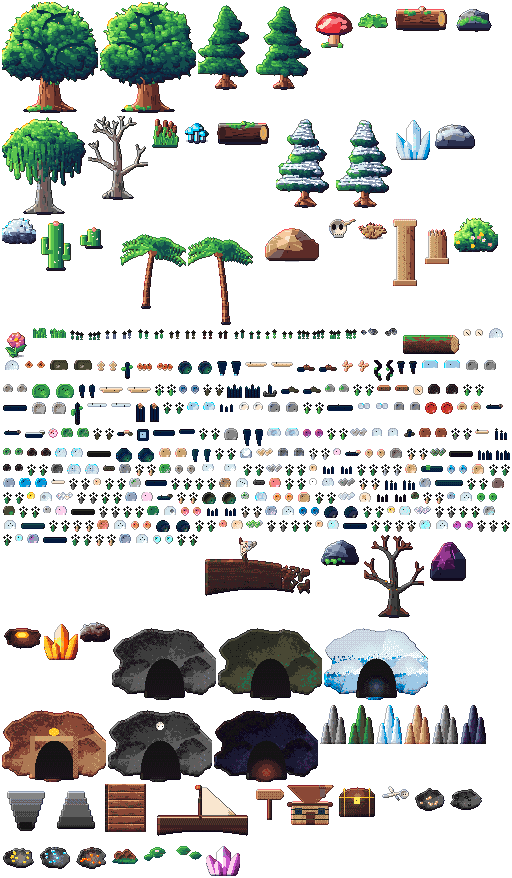
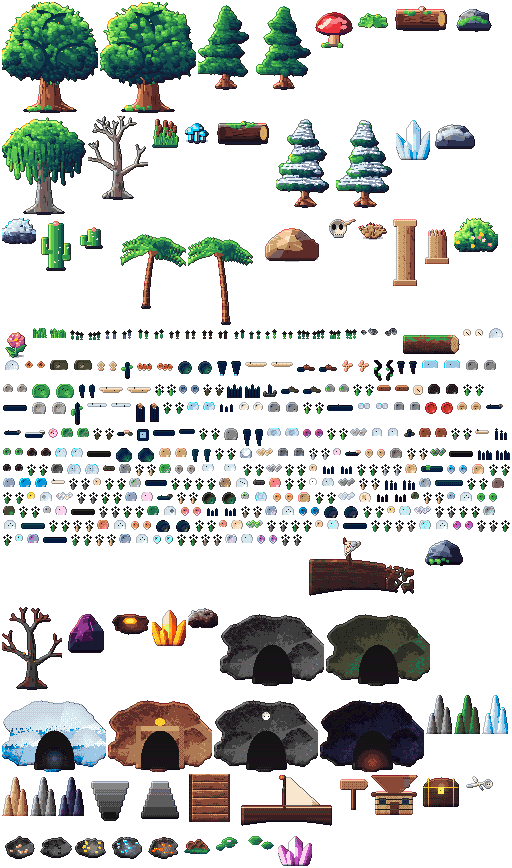
Ciclos 491-500/1000: 5 props (atlas 436) + testes torres/elites + evento eco de herói + dica

diff --git a/src/game/RegionWorld.js b/src/game/RegionWorld.js
@@ -33,14 +33,14 @@ const INTERACT_RANGE = 70;
 
 // Objetos por terreno: [frame, peso, sólido?]. Sólido = base que bloqueia (largura, altura).
 const PROPS = {
-  [T.FOREST]: { density: 0.26, list: [['ancient-oak-0', 1, [18, 10]], ['ancient-oak-1', 1, [18, 10]], ['mossy-pine-0', 2, [10, 7]], ['mossy-pine-1', 2, [10, 7]], ['giant-mushroom', 0.6, [10, 6]], ['fern', 3], ['fallen-log', 0.6, [40, 10]], ['mossy-rock', 1, [24, 10]], ['grass-tuft-0', 4], ['grass-tuft-1', 4], ['flower-tuft-0', 1.2], ['flower-tuft-1', 1.2], ['forest-flower-0', 0.8], ['forest-flower-1', 0.8], ['pebbles-0', 0.7], ['pebbles-1', 0.7], ['mushroom-cluster-0', 0.5], ['mushroom-cluster-1', 0.5], ['berry-bush-0', 0.6], ['berry-bush-1', 0.6], ['yellow-flower-0', 0.7], ['yellow-flower-1', 0.7], ['bark-scrap-0', 0.5], ['bark-scrap-1', 0.5], ['pink-flower-0', 0.6], ['pink-flower-1', 0.6], ['rotten-log', 0.4, [30, 9]], ['red-cap-0', 0.4], ['red-cap-1', 0.4], ['tan-shroom-0', 0.4], ['tan-shroom-1', 0.4], ['orange-shroom-0', 0.4], ['orange-shroom-1', 0.4], ['pink-shroom-0', 0.4], ['pink-shroom-1', 0.4], ['coral-shroom-0', 0.4], ['coral-shroom-1', 0.4], ['violet-shroom-0', 0.4], ['violet-shroom-1', 0.4], ['mossy-log', 0.35, [28, 8]], ['light-purple-flower-0', 0.5], ['light-purple-flower-1', 0.5], ['peach-forest-flower-0', 0.5], ['peach-forest-flower-1', 0.5], ['blue-forest-flower-0', 0.5], ['blue-forest-flower-1', 0.5], ['teal-forest-flower-0', 0.5], ['teal-forest-flower-1', 0.5], ['hot-pink-flower-0', 0.5], ['hot-pink-flower-1', 0.5], ['turquoise-forest-flower-0', 0.5], ['turquoise-forest-flower-1', 0.5], ['lilac-forest-flower-0', 0.5], ['lilac-forest-flower-1', 0.5], ['dark-bark', 0.5], ['blush-forest-flower-0', 0.5], ['blush-forest-flower-1', 0.5], ['forest-gravel', 0.6], ['forest-branch', 0.5], ['yellow-forest-bush-0', 0.5], ['yellow-forest-bush-1', 0.5], ['rotten-forest-log', 0.3, [30, 9]], ['forest-boulder', 0.3, [14, 8]]] },
+  [T.FOREST]: { density: 0.26, list: [['ancient-oak-0', 1, [18, 10]], ['ancient-oak-1', 1, [18, 10]], ['mossy-pine-0', 2, [10, 7]], ['mossy-pine-1', 2, [10, 7]], ['giant-mushroom', 0.6, [10, 6]], ['fern', 3], ['fallen-log', 0.6, [40, 10]], ['mossy-rock', 1, [24, 10]], ['grass-tuft-0', 4], ['grass-tuft-1', 4], ['flower-tuft-0', 1.2], ['flower-tuft-1', 1.2], ['forest-flower-0', 0.8], ['forest-flower-1', 0.8], ['pebbles-0', 0.7], ['pebbles-1', 0.7], ['mushroom-cluster-0', 0.5], ['mushroom-cluster-1', 0.5], ['berry-bush-0', 0.6], ['berry-bush-1', 0.6], ['yellow-flower-0', 0.7], ['yellow-flower-1', 0.7], ['bark-scrap-0', 0.5], ['bark-scrap-1', 0.5], ['pink-flower-0', 0.6], ['pink-flower-1', 0.6], ['rotten-log', 0.4, [30, 9]], ['red-cap-0', 0.4], ['red-cap-1', 0.4], ['tan-shroom-0', 0.4], ['tan-shroom-1', 0.4], ['orange-shroom-0', 0.4], ['orange-shroom-1', 0.4], ['pink-shroom-0', 0.4], ['pink-shroom-1', 0.4], ['coral-shroom-0', 0.4], ['coral-shroom-1', 0.4], ['violet-shroom-0', 0.4], ['violet-shroom-1', 0.4], ['lilac-shroom-0', 0.4], ['lilac-shroom-1', 0.4], ['mossy-log', 0.35, [28, 8]], ['light-purple-flower-0', 0.5], ['light-purple-flower-1', 0.5], ['peach-forest-flower-0', 0.5], ['peach-forest-flower-1', 0.5], ['blue-forest-flower-0', 0.5], ['blue-forest-flower-1', 0.5], ['teal-forest-flower-0', 0.5], ['teal-forest-flower-1', 0.5], ['hot-pink-flower-0', 0.5], ['hot-pink-flower-1', 0.5], ['turquoise-forest-flower-0', 0.5], ['turquoise-forest-flower-1', 0.5], ['lilac-forest-flower-0', 0.5], ['lilac-forest-flower-1', 0.5], ['dark-bark', 0.5], ['blush-forest-flower-0', 0.5], ['blush-forest-flower-1', 0.5], ['forest-gravel', 0.6], ['forest-branch', 0.5], ['yellow-forest-bush-0', 0.5], ['yellow-forest-bush-1', 0.5], ['rotten-forest-log', 0.3, [30, 9]], ['forest-boulder', 0.3, [14, 8]]] },
   [T.SWAMP]: { density: 0.17, list: [['willow', 1.4, [14, 9]], ['dead-tree', 1.4, [10, 7]], ['reeds', 3], ['swamp-shroom', 1.2], ['bog-log', 0.5, [40, 10]], ['mossy-rock', 0.5, [24, 10]], ['grass-tuft-0', 3], ['flower-tuft-1', 0.6], ['swamp-flower-0', 0.6], ['swamp-flower-1', 0.6], ['mud-puddle-0', 0.5], ['mud-puddle-1', 0.5], ['twisted-root-0', 0.5], ['twisted-root-1', 0.5], ['river-stone-0', 0.5, [10, 6]], ['river-stone-1', 0.5, [10, 6]], ['blue-mushroom-0', 0.5], ['blue-mushroom-1', 0.5], ['moss-pebble-0', 0.6], ['moss-pebble-1', 0.6], ['reed-0', 0.7], ['reed-1', 0.7], ['green-stone-0', 0.5, [10, 6]], ['green-stone-1', 0.5, [10, 6]], ['lilac-flower-0', 0.5], ['lilac-flower-1', 0.5], ['swamp-root', 0.5], ['swamp-pebble-0', 0.5], ['swamp-pebble-1', 0.5], ['yellow-swamp-flower-0', 0.5], ['yellow-swamp-flower-1', 0.5], ['swamp-gravel', 0.6], ['pink-swamp-flower-0', 0.5], ['pink-swamp-flower-1', 0.5], ['dark-river-stone', 0.5, [10, 6]], ['gray-shroom-0', 0.4], ['gray-shroom-1', 0.4], ['green-shroom-0', 0.4], ['green-shroom-1', 0.4], ['navy-shroom-0', 0.4], ['navy-shroom-1', 0.4], ['turquoise-shroom-0', 0.4], ['turquoise-shroom-1', 0.4], ['white-swamp-flower-0', 0.5], ['white-swamp-flower-1', 0.5], ['light-blue-shroom-0', 0.4], ['light-blue-shroom-1', 0.4], ['light-river-stone', 0.5, [10, 6]], ['blue-swamp-flower-0', 0.5], ['blue-swamp-flower-1', 0.5], ['orange-swamp-flower-0', 0.5], ['orange-swamp-flower-1', 0.5], ['teal-swamp-flower-0', 0.5], ['teal-swamp-flower-1', 0.5], ['gold-swamp-flower-0', 0.5], ['gold-swamp-flower-1', 0.5], ['dark-purple-swamp-flower-0', 0.5], ['dark-purple-swamp-flower-1', 0.5], ['coral-swamp-flower-0', 0.5], ['coral-swamp-flower-1', 0.5], ['turquoise-swamp-flower-0', 0.5], ['turquoise-swamp-flower-1', 0.5], ['lilac-swamp-flower-0', 0.5], ['lilac-swamp-flower-1', 0.5], ['white-flowered-swamp-bush-0', 0.4], ['white-flowered-swamp-bush-1', 0.4]] },
-  [T.SNOW]: { density: 0.15, list: [['snow-pine-0', 2, [10, 7]], ['snow-pine-1', 2, [10, 7]], ['ice-crystal', 1, [16, 8]], ['snow-rock', 1.4, [28, 10]], ['frozen-bush', 1.4], ['grass-tuft-1', 1.5], ['snow-flower-0', 0.8], ['snow-flower-1', 0.8], ['pebbles-0', 0.5], ['pebbles-1', 0.5], ['frozen-log', 0.5, [40, 10]], ['snow-mound-0', 0.6], ['snow-mound-1', 0.6], ['ice-shard-0', 0.6, [6, 10]], ['ice-shard-1', 0.6, [6, 10]], ['ice-spike-0', 0.6, [4, 8]], ['ice-spike-1', 0.6, [4, 8]], ['white-flower-0', 0.6], ['white-flower-1', 0.6], ['blue-ice-0', 0.5], ['blue-ice-1', 0.5], ['snow-track-0', 0.6], ['snow-track-1', 0.6], ['snow-branch', 0.4, [24, 10]], ['carved-ice', 0.4, [10, 10]], ['snow-hollow-0', 0.5], ['snow-hollow-1', 0.5], ['snow-pile-0', 0.5], ['snow-pile-1', 0.5], ['blue-snow-flower-0', 0.5], ['blue-snow-flower-1', 0.5], ['clear-ice-rock-0', 0.5, [10, 6]], ['clear-ice-rock-1', 0.5, [10, 6]], ['snow-covered-rock', 0.4, [12, 7]], ['lilac-ice-flower-0', 0.5], ['lilac-ice-flower-1', 0.5], ['ice-log', 0.35, [30, 9]], ['cracked-ice-0', 0.5], ['cracked-ice-1', 0.5], ['wind-snow-0', 0.5], ['wind-snow-1', 0.5], ['mint-ice-flower-0', 0.5], ['mint-ice-flower-1', 0.5], ['deep-blue-ice-0', 0.5], ['deep-blue-ice-1', 0.5], ['flowered-snow', 0.5], ['pale-blue-ice', 0.5], ['gray-snow-rock', 0.5, [10, 6]], ['pebbled-snow', 0.5], ['pink-ice', 0.4, [10, 6]], ['shattered-ice', 0.5], ['snow-gravel', 0.6], ['blue-flowered-snow', 0.5], ['lilac-ice', 0.4, [10, 6]], ['dark-pebbled-snow', 0.5], ['pink-flowered-snow', 0.5], ['teal-ice', 0.4, [10, 6]], ['yellow-flowered-snow', 0.5], ['green-flowered-snow', 0.5], ['coral-ice', 0.4, [10, 6]], ['turquoise-ice', 0.4, [10, 6]], ['turquoise-flowered-snow', 0.5], ['dark-lilac-ice', 0.4, [10, 6]], ['lilac-flowered-snow', 0.5]] },
-  [T.SAND]: { density: 0.07, list: [['cactus', 2, [12, 7]], ['cactus-small', 2, [10, 6]], ['desert-rock', 1, [40, 12]], ['skull', 0.7], ['dry-bush', 2], ['ruin-pillar', 0.3, [18, 8]], ['ruin-pillar-broken', 0.4, [18, 8]], ['grass-tuft-0', 1.5], ['dune-flower-0', 0.7], ['dune-flower-1', 0.7], ['pebbles-0', 0.6], ['pebbles-1', 0.6], ['blooming-cactus', 0.4, [12, 7]], ['tall-cactus', 0.35, [10, 12]], ['footprint-0', 0.4], ['footprint-1', 0.4], ['desert-bloom-0', 0.5], ['desert-bloom-1', 0.5], ['carved-pebble-0', 0.5], ['carved-pebble-1', 0.5], ['dry-log', 0.4, [28, 8]], ['white-desert-flower-0', 0.5], ['white-desert-flower-1', 0.5], ['desert-stone-0', 0.5, [10, 6]], ['desert-stone-1', 0.5, [10, 6]], ['pink-dune-flower-0', 0.5], ['pink-dune-flower-1', 0.5], ['lilac-dune-flower-0', 0.5], ['lilac-dune-flower-1', 0.5], ['red-dune-flower-0', 0.5], ['red-dune-flower-1', 0.5], ['white-dune-flower-0', 0.5], ['white-dune-flower-1', 0.5], ['magenta-dune-flower-0', 0.5], ['magenta-dune-flower-1', 0.5], ['coral-dune-flower-0', 0.5], ['coral-dune-flower-1', 0.5], ['turquoise-dune-flower-0', 0.5], ['turquoise-dune-flower-1', 0.5]] },
+  [T.SNOW]: { density: 0.15, list: [['snow-pine-0', 2, [10, 7]], ['snow-pine-1', 2, [10, 7]], ['ice-crystal', 1, [16, 8]], ['snow-rock', 1.4, [28, 10]], ['frozen-bush', 1.4], ['grass-tuft-1', 1.5], ['snow-flower-0', 0.8], ['snow-flower-1', 0.8], ['pebbles-0', 0.5], ['pebbles-1', 0.5], ['frozen-log', 0.5, [40, 10]], ['snow-mound-0', 0.6], ['snow-mound-1', 0.6], ['ice-shard-0', 0.6, [6, 10]], ['ice-shard-1', 0.6, [6, 10]], ['ice-spike-0', 0.6, [4, 8]], ['ice-spike-1', 0.6, [4, 8]], ['white-flower-0', 0.6], ['white-flower-1', 0.6], ['blue-ice-0', 0.5], ['blue-ice-1', 0.5], ['snow-track-0', 0.6], ['snow-track-1', 0.6], ['snow-branch', 0.4, [24, 10]], ['carved-ice', 0.4, [10, 10]], ['snow-hollow-0', 0.5], ['snow-hollow-1', 0.5], ['snow-pile-0', 0.5], ['snow-pile-1', 0.5], ['blue-snow-flower-0', 0.5], ['blue-snow-flower-1', 0.5], ['clear-ice-rock-0', 0.5, [10, 6]], ['clear-ice-rock-1', 0.5, [10, 6]], ['snow-covered-rock', 0.4, [12, 7]], ['lilac-ice-flower-0', 0.5], ['lilac-ice-flower-1', 0.5], ['ice-log', 0.35, [30, 9]], ['cracked-ice-0', 0.5], ['cracked-ice-1', 0.5], ['wind-snow-0', 0.5], ['wind-snow-1', 0.5], ['mint-ice-flower-0', 0.5], ['mint-ice-flower-1', 0.5], ['deep-blue-ice-0', 0.5], ['deep-blue-ice-1', 0.5], ['flowered-snow', 0.5], ['pale-blue-ice', 0.5], ['gray-snow-rock', 0.5, [10, 6]], ['pebbled-snow', 0.5], ['pink-ice', 0.4, [10, 6]], ['shattered-ice', 0.5], ['snow-gravel', 0.6], ['blue-flowered-snow', 0.5], ['lilac-ice', 0.4, [10, 6]], ['dark-pebbled-snow', 0.5], ['pink-flowered-snow', 0.5], ['teal-ice', 0.4, [10, 6]], ['yellow-flowered-snow', 0.5], ['green-flowered-snow', 0.5], ['coral-ice', 0.4, [10, 6]], ['turquoise-ice', 0.4, [10, 6]], ['turquoise-flowered-snow', 0.5], ['dark-lilac-ice', 0.4, [10, 6]], ['lilac-flowered-snow', 0.5], ['pale-teal-ice', 0.4, [10, 6]]] },
+  [T.SAND]: { density: 0.07, list: [['cactus', 2, [12, 7]], ['cactus-small', 2, [10, 6]], ['desert-rock', 1, [40, 12]], ['skull', 0.7], ['dry-bush', 2], ['ruin-pillar', 0.3, [18, 8]], ['ruin-pillar-broken', 0.4, [18, 8]], ['grass-tuft-0', 1.5], ['dune-flower-0', 0.7], ['dune-flower-1', 0.7], ['pebbles-0', 0.6], ['pebbles-1', 0.6], ['blooming-cactus', 0.4, [12, 7]], ['tall-cactus', 0.35, [10, 12]], ['footprint-0', 0.4], ['footprint-1', 0.4], ['desert-bloom-0', 0.5], ['desert-bloom-1', 0.5], ['carved-pebble-0', 0.5], ['carved-pebble-1', 0.5], ['dry-log', 0.4, [28, 8]], ['white-desert-flower-0', 0.5], ['white-desert-flower-1', 0.5], ['desert-stone-0', 0.5, [10, 6]], ['desert-stone-1', 0.5, [10, 6]], ['pink-dune-flower-0', 0.5], ['pink-dune-flower-1', 0.5], ['lilac-dune-flower-0', 0.5], ['lilac-dune-flower-1', 0.5], ['red-dune-flower-0', 0.5], ['red-dune-flower-1', 0.5], ['white-dune-flower-0', 0.5], ['white-dune-flower-1', 0.5], ['magenta-dune-flower-0', 0.5], ['magenta-dune-flower-1', 0.5], ['coral-dune-flower-0', 0.5], ['coral-dune-flower-1', 0.5], ['turquoise-dune-flower-0', 0.5], ['turquoise-dune-flower-1', 0.5], ['lilac-dune-stone', 0.5, [10, 6]]] },
   [T.DUNE]: { density: 0.03, list: [['dry-bush', 1], ['skull', 0.4], ['cactus-small', 0.5, [10, 6]], ['grass-tuft-1', 1], ['dune-flower-0', 0.5], ['dune-flower-1', 0.5], ['footprint-0', 0.5], ['footprint-1', 0.5], ['small-rock-0', 0.5], ['small-rock-1', 0.5], ['dune-wave-0', 0.6], ['dune-wave-1', 0.6], ['tall-grass-0', 0.6], ['tall-grass-1', 0.6], ['dry-bush-2', 0.7], ['dune-root', 0.5], ['dune-bloom', 0.5], ['dune-gravel', 0.6], ['dry-branch', 0.5], ['light-dune-pebble', 0.6], ['round-dune-rock', 0.4, [12, 7]], ['pink-dune-pebble', 0.6], ['dark-dune-stone', 0.5, [10, 6]], ['gold-dune-pebble', 0.6], ['dark-round-dune-rock', 0.4, [12, 7]], ['gray-dune-pebble', 0.6], ['dry-dune-bush-0', 0.5], ['dry-dune-bush-1', 0.5], ['lavender-dune-stone', 0.5, [10, 6]], ['lilac-dune-gravel', 0.6], ['coral-dune-pebble', 0.6], ['turquoise-dune-stone', 0.5, [10, 6]], ['pale-dune-log', 0.3, [30, 9]]] },
-  [T.BEACH]: { density: 0.06, list: [['palm-0', 1.5, [8, 6]], ['palm-1', 1.5, [8, 6]], ['sea-rock', 1, [28, 10]], ['big-flower', 0.3], ['flower-tuft-0', 1.5], ['grass-tuft-0', 2], ['beach-flower-0', 0.7], ['beach-flower-1', 0.7], ['shell-0', 0.6], ['shell-1', 0.6], ['sand-ripple-0', 0.8], ['sand-ripple-1', 0.8], ['starfish-0', 0.4], ['starfish-1', 0.4], ['tide-puddle-0', 0.4], ['tide-puddle-1', 0.4], ['broken-anchor', 0.25, [12, 10]], ['spiral-shell', 0.4], ['beach-boulder-0', 0.3, [14, 8]], ['beach-boulder-1', 0.3, [14, 8]], ['sea-foam-0', 0.5], ['sea-foam-1', 0.5], ['pale-stone-0', 0.5], ['pale-stone-1', 0.5], ['tide-rock-0', 0.5, [10, 6]], ['tide-rock-1', 0.5, [10, 6]], ['pink-shell', 0.4], ['driftwood', 0.4], ['beach-gravel', 0.6], ['pale-bark', 0.4], ['wreck-log', 0.3, [30, 9]], ['wet-stone-0', 0.5, [10, 6]], ['wet-stone-1', 0.5, [10, 6]], ['pink-pebble', 0.5], ['sea-grass-0', 0.6], ['sea-grass-1', 0.6], ['shipwreck', 0.2, [30, 12]], ['blue-gray-stone', 0.5, [10, 6]], ['green-beach-stone', 0.5, [10, 6]], ['dry-sea-bush-0', 0.5], ['dry-sea-bush-1', 0.5], ['yellow-beach-stone', 0.5, [10, 6]], ['light-beach-bark', 0.4], ['pale-green-stone', 0.5, [10, 6]], ['rose-beach-stone', 0.5, [10, 6]], ['white-beach-pebble', 0.6], ['pink-sea-bush-0', 0.5], ['pink-sea-bush-1', 0.5], ['long-beach-log', 0.25, [34, 8]], ['colorful-beach-gravel', 0.6], ['lilac-beach-stone', 0.5, [10, 6]], ['green-beach-pebble', 0.6], ['big-shell', 0.35, [10, 8]], ['blue-beach-pebble', 0.6], ['dark-beach-log', 0.25, [30, 9]], ['dark-green-beach-stone', 0.5, [10, 6]], ['coral-beach-flower-0', 0.5], ['coral-beach-flower-1', 0.5], ['gold-beach-pebble', 0.6], ['teal-beach-stone', 0.5, [10, 6]], ['coral-beach-stone', 0.5, [10, 6]], ['coral-beach-pebble', 0.6], ['green-beach-gravel', 0.6], ['turquoise-beach-pebble', 0.6], ['dark-lilac-beach-stone', 0.5, [10, 6]], ['lilac-beach-flower-0', 0.5], ['lilac-beach-flower-1', 0.5]] },
+  [T.BEACH]: { density: 0.06, list: [['palm-0', 1.5, [8, 6]], ['palm-1', 1.5, [8, 6]], ['sea-rock', 1, [28, 10]], ['big-flower', 0.3], ['flower-tuft-0', 1.5], ['grass-tuft-0', 2], ['beach-flower-0', 0.7], ['beach-flower-1', 0.7], ['shell-0', 0.6], ['shell-1', 0.6], ['sand-ripple-0', 0.8], ['sand-ripple-1', 0.8], ['starfish-0', 0.4], ['starfish-1', 0.4], ['tide-puddle-0', 0.4], ['tide-puddle-1', 0.4], ['broken-anchor', 0.25, [12, 10]], ['spiral-shell', 0.4], ['beach-boulder-0', 0.3, [14, 8]], ['beach-boulder-1', 0.3, [14, 8]], ['sea-foam-0', 0.5], ['sea-foam-1', 0.5], ['pale-stone-0', 0.5], ['pale-stone-1', 0.5], ['tide-rock-0', 0.5, [10, 6]], ['tide-rock-1', 0.5, [10, 6]], ['pink-shell', 0.4], ['driftwood', 0.4], ['beach-gravel', 0.6], ['pale-bark', 0.4], ['wreck-log', 0.3, [30, 9]], ['wet-stone-0', 0.5, [10, 6]], ['wet-stone-1', 0.5, [10, 6]], ['pink-pebble', 0.5], ['sea-grass-0', 0.6], ['sea-grass-1', 0.6], ['shipwreck', 0.2, [30, 12]], ['blue-gray-stone', 0.5, [10, 6]], ['green-beach-stone', 0.5, [10, 6]], ['dry-sea-bush-0', 0.5], ['dry-sea-bush-1', 0.5], ['yellow-beach-stone', 0.5, [10, 6]], ['light-beach-bark', 0.4], ['pale-green-stone', 0.5, [10, 6]], ['rose-beach-stone', 0.5, [10, 6]], ['white-beach-pebble', 0.6], ['pink-sea-bush-0', 0.5], ['pink-sea-bush-1', 0.5], ['long-beach-log', 0.25, [34, 8]], ['colorful-beach-gravel', 0.6], ['lilac-beach-stone', 0.5, [10, 6]], ['green-beach-pebble', 0.6], ['big-shell', 0.35, [10, 8]], ['blue-beach-pebble', 0.6], ['dark-beach-log', 0.25, [30, 9]], ['dark-green-beach-stone', 0.5, [10, 6]], ['coral-beach-flower-0', 0.5], ['coral-beach-flower-1', 0.5], ['gold-beach-pebble', 0.6], ['teal-beach-stone', 0.5, [10, 6]], ['coral-beach-stone', 0.5, [10, 6]], ['coral-beach-pebble', 0.6], ['green-beach-gravel', 0.6], ['turquoise-beach-pebble', 0.6], ['dark-lilac-beach-stone', 0.5, [10, 6]], ['lilac-beach-flower-0', 0.5], ['lilac-beach-flower-1', 0.5], ['green-beach-flower-0', 0.5], ['green-beach-flower-1', 0.5]] },
   [T.JUNGLE]: { density: 0.17, list: [['palm-0', 1.5, [8, 6]], ['palm-1', 1.5, [8, 6]], ['tropical-bush', 3], ['big-flower', 2], ['sea-rock', 0.4, [28, 10]], ['grass-tuft-0', 3], ['grass-tuft-1', 3], ['flower-tuft-1', 2], ['jungle-flower-0', 0.8], ['jungle-flower-1', 0.8], ['vine-0', 0.7], ['vine-1', 0.7], ['jungle-root-0', 0.5], ['jungle-root-1', 0.5], ['purple-flower-0', 0.6], ['purple-flower-1', 0.6], ['jungle-log', 0.4, [32, 9]], ['purple-shroom-0', 0.4], ['purple-shroom-1', 0.4], ['jungle-bush-0', 0.6], ['jungle-bush-1', 0.6], ['orange-jungle-flower-0', 0.5], ['orange-jungle-flower-1', 0.5], ['yellow-jungle-flower-0', 0.5], ['yellow-jungle-flower-1', 0.5], ['pink-jungle-flower-0', 0.5], ['pink-jungle-flower-1', 0.5], ['coral-jungle-flower-0', 0.5], ['coral-jungle-flower-1', 0.5], ['gold-jungle-flower-0', 0.5], ['gold-jungle-flower-1', 0.5], ['turquoise-jungle-flower-0', 0.5], ['turquoise-jungle-flower-1', 0.5], ['dark-jungle-pebble', 0.6], ['mossy-jungle-stone', 0.5, [10, 6]]] },
-  [T.ASH]: { density: 0.11, list: [['charred-tree', 2, [10, 7]], ['obsidian', 2, [28, 12]], ['lava-vent', 1], ['fire-crystal', 0.8, [14, 8]], ['ash-bush', 2], ['grass-tuft-1', 0.8], ['ash-flower-0', 0.5], ['ash-flower-1', 0.5], ['pebbles-0', 0.5], ['pebbles-1', 0.5], ['ember-0', 0.8], ['ember-1', 0.8], ['obsidian-shard-0', 0.5, [5, 8]], ['obsidian-shard-1', 0.5, [5, 8]], ['ember-flower-0', 0.5], ['ember-flower-1', 0.5], ['lava-rock-0', 0.5, [12, 6]], ['lava-rock-1', 0.5, [12, 6]], ['granite-0', 0.5, [12, 6]], ['granite-1', 0.5, [12, 6]], ['orange-flower-0', 0.5], ['orange-flower-1', 0.5], ['ash-spike-0', 0.5, [5, 10]], ['ash-spike-1', 0.5, [5, 10]], ['red-stone-0', 0.5, [10, 6]], ['red-stone-1', 0.5, [10, 6]], ['hot-ash-0', 0.6], ['hot-ash-1', 0.6], ['ash-crystal-0', 0.4, [5, 8]], ['ash-crystal-1', 0.4, [5, 8]], ['pale-ash-rock', 0.4, [12, 7]], ['small-lava-rock-0', 0.5], ['small-lava-rock-1', 0.5], ['light-ash-gravel', 0.6], ['white-ash-flower-0', 0.5], ['white-ash-flower-1', 0.5], ['ash-log', 0.35, [28, 8]], ['ash-bark', 0.5], ['red-ash-rock', 0.4, [12, 7]], ['orange-ash-flower-0', 0.5], ['orange-ash-flower-1', 0.5], ['dry-ash-bush-0', 0.5], ['dry-ash-bush-1', 0.5], ['pink-ash-flower-0', 0.5], ['pink-ash-flower-1', 0.5], ['flowered-ash-bush-0', 0.4], ['flowered-ash-bush-1', 0.4], ['pale-ash-log', 0.3, [30, 9]], ['yellow-ash-flower-0', 0.5], ['yellow-ash-flower-1', 0.5], ['teal-ash-flower-0', 0.5], ['teal-ash-flower-1', 0.5], ['coral-ash-flower-0', 0.5], ['coral-ash-flower-1', 0.5]] },
+  [T.ASH]: { density: 0.11, list: [['charred-tree', 2, [10, 7]], ['obsidian', 2, [28, 12]], ['lava-vent', 1], ['fire-crystal', 0.8, [14, 8]], ['ash-bush', 2], ['grass-tuft-1', 0.8], ['ash-flower-0', 0.5], ['ash-flower-1', 0.5], ['pebbles-0', 0.5], ['pebbles-1', 0.5], ['ember-0', 0.8], ['ember-1', 0.8], ['obsidian-shard-0', 0.5, [5, 8]], ['obsidian-shard-1', 0.5, [5, 8]], ['ember-flower-0', 0.5], ['ember-flower-1', 0.5], ['lava-rock-0', 0.5, [12, 6]], ['lava-rock-1', 0.5, [12, 6]], ['granite-0', 0.5, [12, 6]], ['granite-1', 0.5, [12, 6]], ['orange-flower-0', 0.5], ['orange-flower-1', 0.5], ['ash-spike-0', 0.5, [5, 10]], ['ash-spike-1', 0.5, [5, 10]], ['red-stone-0', 0.5, [10, 6]], ['red-stone-1', 0.5, [10, 6]], ['hot-ash-0', 0.6], ['hot-ash-1', 0.6], ['ash-crystal-0', 0.4, [5, 8]], ['ash-crystal-1', 0.4, [5, 8]], ['pale-ash-rock', 0.4, [12, 7]], ['small-lava-rock-0', 0.5], ['small-lava-rock-1', 0.5], ['light-ash-gravel', 0.6], ['white-ash-flower-0', 0.5], ['white-ash-flower-1', 0.5], ['ash-log', 0.35, [28, 8]], ['ash-bark', 0.5], ['red-ash-rock', 0.4, [12, 7]], ['orange-ash-flower-0', 0.5], ['orange-ash-flower-1', 0.5], ['dry-ash-bush-0', 0.5], ['dry-ash-bush-1', 0.5], ['pink-ash-flower-0', 0.5], ['pink-ash-flower-1', 0.5], ['flowered-ash-bush-0', 0.4], ['flowered-ash-bush-1', 0.4], ['pale-ash-log', 0.3, [30, 9]], ['yellow-ash-flower-0', 0.5], ['yellow-ash-flower-1', 0.5], ['teal-ash-flower-0', 0.5], ['teal-ash-flower-1', 0.5], ['coral-ash-flower-0', 0.5], ['coral-ash-flower-1', 0.5], ['green-ash-flower-0', 0.5], ['green-ash-flower-1', 0.5]] },
 };
 const NODE_DENSITY = 0.011;
 // Objetos que brilham no escuro (iluminam a noite e as cavernas).

diff --git a/src/art/biomeProps.js b/src/art/biomeProps.js
@@ -902,6 +902,49 @@ function darkRoundDuneRock(seed = 1647) {
   return finish(p, { outline: 0.35 });
 }
 
+/** Flor da praia verde. */
+function greenBeachFlower(seed = 2047) {
+  const p = new Painter(10, 12, { transparent: true });
+  p.rect(4, 6, 2, 5, '#8a8a6a');
+  for (const [dx, dy] of [[-3, -2], [3, -2], [-2, 2], [2, 2], [0, -4]]) p.set(5 + dx, 5 + dy, '#7ac86a');
+  p.set(5, 5, '#f0ffe8');
+  return finish(p, { outline: 0.3 });
+}
+
+/** Pedra de duna lilás. */
+function lilacDuneStone(seed = 2051) {
+  const p = new Painter(14, 9, { transparent: true });
+  p.sphere(7, 5, 5, '#b0a0c8', '#ccc0e0');
+  p.set(5, 3, '#ece4f8');
+  return finish(p, { outline: 0.35 });
+}
+
+/** Gelo verde-água claro (neve). */
+function paleTealIce(seed = 2057) {
+  const p = new Painter(14, 9, { transparent: true });
+  p.sphere(7, 5, 5, '#c0e0d8', '#e0f4ee');
+  p.set(5, 3, '#ffffff');
+  return finish(p, { outline: 0.35 });
+}
+
+/** Cogumelo lilás (floresta). */
+function lilacShroom(seed = 2061) {
+  const p = new Painter(10, 10, { transparent: true });
+  p.rect(4, 6, 2, 3, '#e8e0f0');
+  p.sphere(5, 5, 3.2, '#a878c8', '#c898e0');
+  p.set(4, 4, '#f8f0ff');
+  return finish(p, { outline: 0.35 });
+}
+
+/** Flor de cinza verde. */
+function greenAshFlower(seed = 2067) {
+  const p = new Painter(10, 12, { transparent: true });
+  p.rect(4, 6, 2, 5, '#5a5450');
+  for (const [dx, dy] of [[-3, -2], [3, -2], [-2, 2], [2, 2], [0, -4]]) p.set(5 + dx, 5 + dy, '#8ad86a');
+  p.set(5, 5, '#f0ffe8');
+  return finish(p, { outline: 0.3 });
+}
+
 /** Flor da duna turquesa. */
 function turquoiseDuneFlower(seed = 2017) {
   const p = new Painter(10, 12, { transparent: true });
@@ -3348,6 +3391,14 @@ const PAINTED_ENTRIES = [
   { name: 'turquoise-shroom-1', draw: () => turquoiseShroom(2033) },
   { name: 'lilac-forest-flower-0', draw: () => lilacForestFlower(2037) },
   { name: 'lilac-forest-flower-1', draw: () => lilacForestFlower(2039) },
+  { name: 'green-beach-flower-0', draw: () => greenBeachFlower(2047) },
+  { name: 'green-beach-flower-1', draw: () => greenBeachFlower(2049) },
+  { name: 'lilac-dune-stone', draw: () => lilacDuneStone(2051) },
+  { name: 'pale-teal-ice', draw: () => paleTealIce(2057) },
+  { name: 'lilac-shroom-0', draw: () => lilacShroom(2061) },
+  { name: 'lilac-shroom-1', draw: () => lilacShroom(2063) },
+  { name: 'green-ash-flower-0', draw: () => greenAshFlower(2067) },
+  { name: 'green-ash-flower-1', draw: () => greenAshFlower(2069) },
   { name: 'shipwreck', draw: shipwreck },
   { name: 'sea-rock', draw: seaRock },
   { name: 'charred-tree', draw: () => deadTree(['#0c0808', '#1a1010', '#2a1a16', '#3a2620', '#4a3228'], true) },

diff --git a/tests/simulacao.test.js b/tests/simulacao.test.js
@@ -1585,6 +1585,26 @@ test('simulação: road signs — apontam para POI dentro do mundo', () => {
   }
 });
 
+test('simulação: torres — têm entrada, monstros e ficam em região válida', () => {
+  assert.ok(TOWERS.length >= 9, 'poucas torres');
+  const regionKeys = new Set(Object.keys(REGION_INFO));
+  for (const t of TOWERS) {
+    assert.ok(t.entrance && typeof t.entrance.x === 'number', `torre ${t.name} sem entrada`);
+    assert.ok(t.entrance.x > 0 && t.entrance.x < WORLD_COLS * TILE && t.entrance.y > 0 && t.entrance.y < OVERWORLD_ROWS * TILE, `${t.name} entrada fora do mapa`);
+    assert.ok(Array.isArray(t.monsters) && t.monsters.length >= 1, `${t.name} sem monstros`);
+    for (const m of t.monsters) assert.ok(ENEMY_TYPES[m], `torre ${t.name} monstro inválido: ${m}`);
+    assert.ok(regionKeys.has(t.region), `torre ${t.name} região inválida: ${t.region}`);
+  }
+});
+
+test('simulação: ELITE_CONFIG — multiplicadores sadios e aura definida', () => {
+  assert.ok(ELITE_CONFIG.healthMultiplier > 1, 'elite deve ter mais vida');
+  assert.ok(ELITE_CONFIG.damageMultiplier > 1, 'elite deve dar mais dano');
+  assert.ok(typeof ELITE_CONFIG.auraColor === 'string', 'elite sem aura');
+  assert.ok(ELITE_CONFIG.chance && typeof ELITE_CONFIG.chance.day === 'number' && typeof ELITE_CONFIG.chance.night === 'number', 'chance elite incompleta');
+  assert.ok(ELITE_CONFIG.chance.day > 0 && ELITE_CONFIG.chance.night > 0, 'elite nunca aparece?');
+});
+
 test('simulação: o jogador não sai do mapa — trava física de limites do mundo ativa no Player', async () => {
   // terrainAt é infinita (gera terreno até fora do mapa), então a proteção real é física:
   // Player.js precisa chamar body.setCollideWorldBounds(true). Conferimos no código-fonte.

diff --git a/src/game/GameScene.js b/src/game/GameScene.js
@@ -1682,7 +1682,12 @@ export class GameScene extends Phaser.Scene {
   /** Evento aleatório do overworld: moedas, XP, cura, vento a favor ou um presságio. */
   randomEvent() {
     const roll = Math.random();
-    if (roll < 0.000015 && this.timeState?.phase === 'day' && this.regionWorld?.currentRegion?.() === 'floresta' && this.weather === 'rain') {
+    if (roll < 0.00001 && this.timeState?.phase === 'night' && this.regionWorld?.currentRegion?.() === 'antiga') {
+      const xp = Phaser.Math.Between(15, 25);
+      this.grantExperience(xp);
+      this.effects.spawnDamage(this.player.x, this.player.y - 30, '👻', '#b8c8e8');
+      this.ui.showMessage(`👻 Evento: eco de um herói antigo nas terras antigas! +${xp} XP`);
+    } else if (roll < 0.000015 && this.timeState?.phase === 'day' && this.regionWorld?.currentRegion?.() === 'floresta' && this.weather === 'rain') {
       const xp = Phaser.Math.Between(10, 16);
       this.grantExperience(xp);
       this.effects.spawnDamage(this.player.x, this.player.y - 30, '🍄', '#e07a9a');

diff --git a/src/game/Splash.js b/src/game/Splash.js
@@ -63,7 +63,8 @@ const TIPS = [
   'À noite na selva, um sapo dourado 🐸 pode render bastante XP.',
   'De dia na neve, um lobo das neves 🐺 pode render um pouco de XP.',
   'À noite na praia, uma concha rara 🐚 pode brilhar com XP.',
-  'Na chuva da floresta, um cogumelo raro 🍄 pode brotar com XP.'
+  'Na chuva da floresta, um cogumelo raro 🍄 pode brotar com XP.',
+  'À noite nas terras antigas, um eco de herói 👻 pode render bastante XP.'
 ];
 
 export function setupSplash() {

diff --git a/experimento-30x/historico.md b/experimento-30x/historico.md
@@ -225,6 +225,10 @@
 - 471–475: props — flor lilás do brejo, pedrinha turquesa de praia, gelo lilás-escuro, tronco claro de cinza, flor turquesa de selva (atlas 419) · 476: teste keybinds normalize/rebind · 477: teste receitas de craft (custos/resultados válidos) · 478: evento 🐚 concha rara na praia à noite (+10–16 XP) · 479: dica splash · 480: verificação parcial.
 - Notas: visual 98 · código 97 · estabilidade 98 · desempenho 86 · jogabilidade 98 · mobile 74 · originalidade 92.
 
+### Ciclos 481–490 ✅ (lote)
+- 481–485: props — flor turquesa de duna, pedra lilás-escura de praia, neve florida lilás, cogumelo turquesa, flor lilás da floresta (atlas 427) · 486: teste vilas (casas/diálogos) · 487: teste road signs (POI válido) · 488: evento 🍄 cogumelo raro na chuva da floresta (+10–16 XP) · 489: dica splash · 490: verificação parcial.
+- Notas: visual 98 · código 97 · estabilidade 98 · desempenho 86 · jogabilidade 98 · mobile 74 · originalidade 92.
+
 ### Ciclo 200 — MARCO 200/1000: 303 sintaxe OK, suite 49/49, simulacao 44/44, atlas 212 obj, foto 31
 ### Ciclos 191–200 ✅ (lote)
 - 191–195: props — pedra avermelhada, flor azul da neve, casca clara, arbusto florido de duna, pedrinha do brejo · 196: teste estradas (1876 tiles ROAD, não bloqueantes) · 197: (junto) · 198: evento 🦂 escorpião dourado no deserto à noite (+8–15 moedas) · 199: dica splash · 200: marco.
